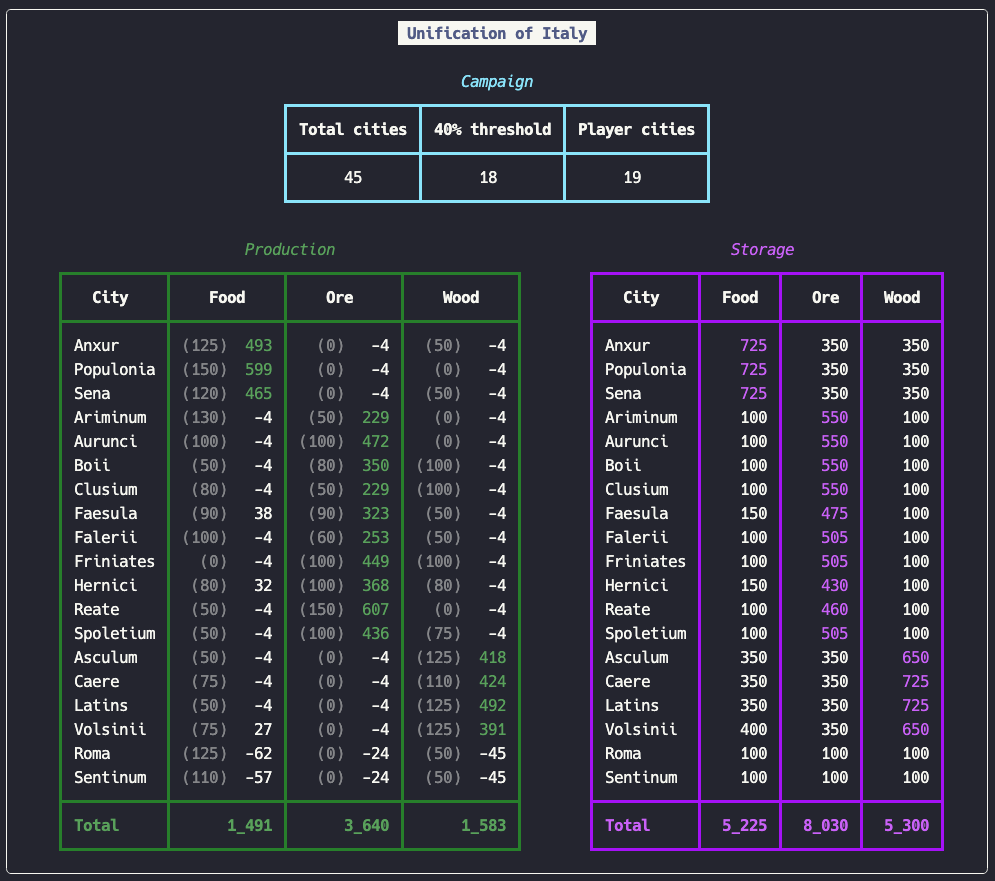
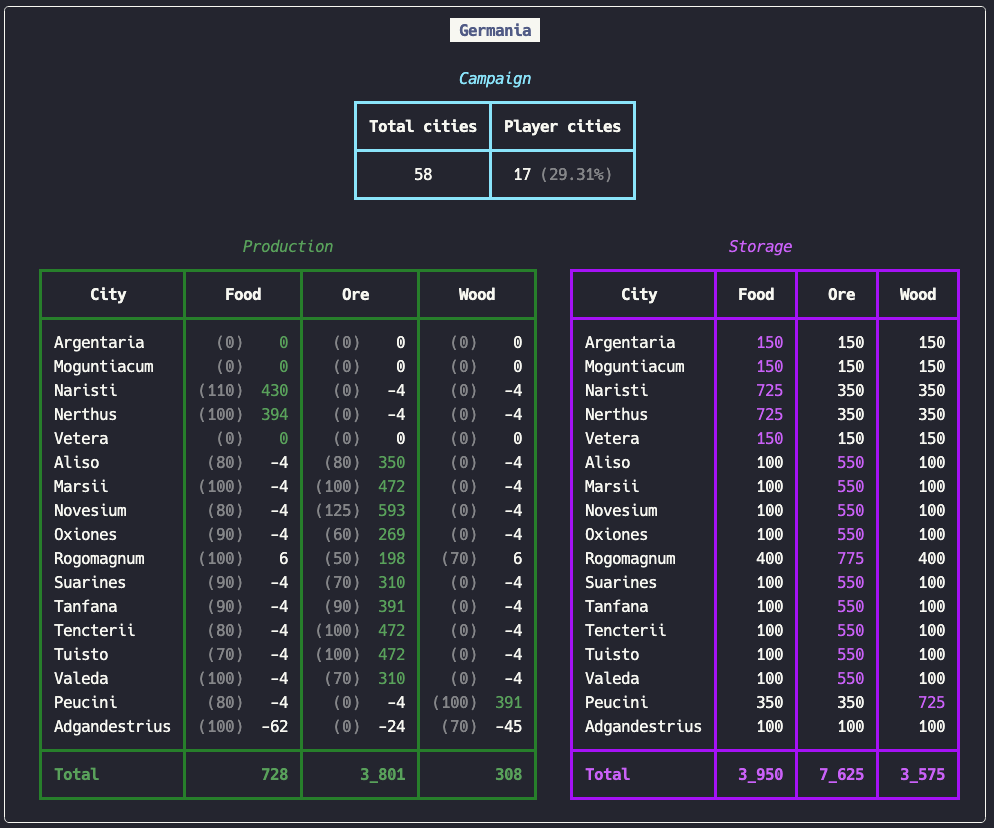
Updates README

Changed region(s): [[0.0, 0.2717, 0.998, 0.9964], [0.2807, 0.0906, 0.7173, 0.2415], [0.0, 0.0, 0.998, 0.0604]]

diff --git a/README.md b/README.md
@@ -159,9 +159,9 @@ For each section you can control:
 ## The `Kingdom` class
 
 The `Kingdom` class produces an overview of the player's situation in a given campaing. It takes as input a list of
-cities and a list of sorting order. It displays the total production and storage situation of the kingdom.
+cities. It displays the total production and storage situation of the kingdom.
 
-You can also use the `Kingdom.from_list()` method to create the Kingdom instance. The list should be a list of city
+You can also use the `Kingdom.from_list()` method to create the `Kingdom` instance. The list should be a list of city
 dictionaries same as with the `Scenario` class.
 
 ```python
@@ -171,27 +171,40 @@ from modules.kingdom import Kingdom
 kingdom: Kingdom = Kingdom.from_list(
     data = [
         {
-            "campaign": "Unification of Italy",
-            "name": "Hernici",
+            "campaign": "Germania",
+            "name": "Vetera",
+            "buildings": {},
+        },
+        {
+            "campaign": "Germania",
+            "name": "Argentaria",
+            "buildings": {},
+        },
+        {
+            "campaign": "Germania",
+            "name": "Moguntiacum",
+            "buildings": {},
+        },
+        {
+            "campaign": "Germania",
+            "name": "Novesium",
+            "buildings": ore_producer,
+        },
+        {
+            "campaign": "Germania",
+            "name": "Rogomagnum",
             "buildings": {
                 "city_hall": 1,
                 "basilica": 1,
                 "miners_guild": 1,
-                "outcrop_mine": 1,
-                "fishing_village": 1,
-                "large_mine": 4,
+                "large_mine": 5,
+                "supply_dump": 1,
             },
         },
         {
-            "campaign": "Unification of Italy",
-            "name": "Reate",
-            "buildings": {
-                "city_hall": 1,
-                "basilica": 1,
-                "miners_guild": 1,
-                "mountain_mine": 2,
-                "large_mine": 4,
-            },
+            "campaign": "Germania",
+            "name": "Peucini",
+            "buildings": wood_producer,
         },
         ...
     ],
@@ -201,6 +214,19 @@ kingdom.display_kingdom()
 ```
 
 ![kingdome overview](img/kingdom_1.png)
+
+You can pass a list to the `sort_order` argument and it will change how the cities are sorted. By default, food
+producers will show first, followed by ore producers, wood producers, and, lastly, cities that don't specialize in any
+resource.
+
+The list can be partial. If you just want to specify that "ore" producers should go first
+
+```python
+sort_order = ["ore"]
+```
+
+is sufficient. The class will sort the cities by ore, followed by food, wood, and no-focus. In short, the list moves
+the order that you supplied to the front and keeps the rest in the default sorting order.
 
 This class will raise `ValueError` if:
 
